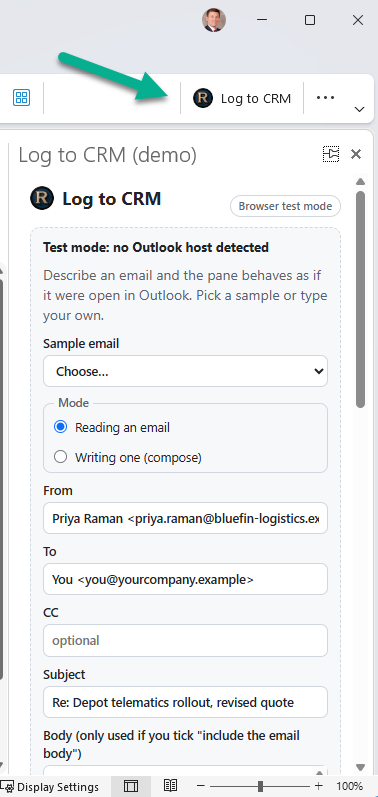
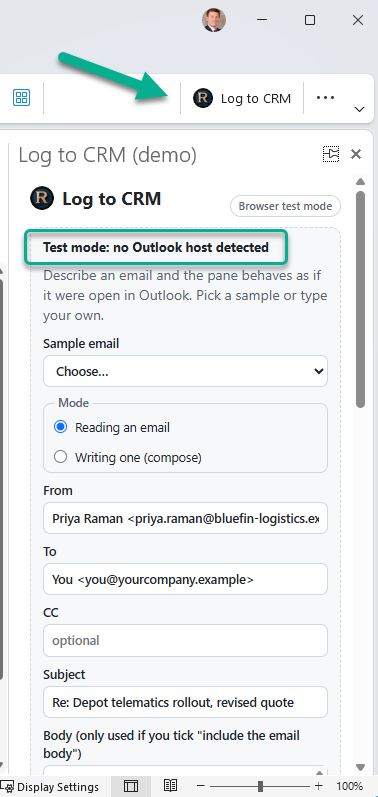
CSP: allow the Office host runtime (inline/eval + Microsoft origins); the strict policy blocked the handshake inside Outlook and stranded the pane in test mode. SECURITY.md documents the trade

Changed region(s): [[0.0582, 0.271, 0.7857, 0.3614]]

diff --git a/index.html b/index.html
@@ -14,17 +14,26 @@
     <meta name="viewport" content="width=device-width, initial-scale=1.0" />
     <meta name="color-scheme" content="light dark" />
     <!--
-      Content Security Policy. Everything is same-origin except Office.js, which
-      must come from Microsoft's CDN (bundling it is not permitted and it has no
-      stable hash for SRI). office.js also fetches its own locale/telemetry files
-      from that host, hence connect-src. Vite emits external scripts, so no
-      'unsafe-inline' for script-src. Inline styles are allowed only because
-      React sets a few style attributes. If the pane ever stops loading inside
-      Outlook after a host update, this policy is the first suspect: see the
-      Security section of the README. (frame-ancestors is deliberately absent:
-      browsers ignore it in a meta tag, and GitHub Pages cannot send headers.)
+      Content Security Policy, second iteration, and an honest one.
+
+      The first version allowed only 'self' plus the Office.js CDN, and it
+      passed everywhere EXCEPT inside Outlook: office.js loads fine, but the
+      host runtime it bootstraps inside Outlook needs inline and eval script
+      execution and talks to more Microsoft origins, so the host handshake
+      never completed and the pane sat in browser test mode forever. This is
+      the tightest policy found to actually host Office.js:
+
+        - script-src: 'unsafe-inline' and 'unsafe-eval' are required by the
+          Office host runtime, not by this app (our own bundle is external and
+          eval-free). That genuinely weakens XSS protection; the compensating
+          controls are that nothing on this page renders untrusted HTML (React
+          text rendering only, no innerHTML) and there is no server or secret
+          behind it.
+        - connect-src / script-src include the Microsoft CDN and service
+          origins office.js uses across hosts and versions.
+        - object-src 'none', base-uri 'self', form-action 'self' still hold.
     -->
-    <meta http-equiv="Content-Security-Policy" content="default-src 'self'; script-src 'self' https://appsforoffice.microsoft.com; connect-src 'self' https://appsforoffice.microsoft.com https://*.officeapps.live.com; img-src 'self' data:; style-src 'self' 'unsafe-inline'; font-src 'self'; base-uri 'self'; form-action 'self'; object-src 'none'" />
+    <meta http-equiv="Content-Security-Policy" content="default-src 'self'; script-src 'self' 'unsafe-inline' 'unsafe-eval' https://appsforoffice.microsoft.com https://*.cdn.office.net https://*.microsoft.com; connect-src 'self' https://*.microsoft.com https://*.office.net https://*.office.com; img-src 'self' data: https://*.microsoft.com https://*.cdn.office.net; style-src 'self' 'unsafe-inline'; font-src 'self' https://*.cdn.office.net; base-uri 'self'; form-action 'self'; object-src 'none'" />
     <meta name="description" content="An Outlook taskpane add-in that logs the open email to a CRM. Public demo: the CRM is a fictional dataset in the pane, so you can sideload the manifest from GitHub Pages, or just use it here in the browser." />
     <title>Log to CRM: Outlook add-in demo</title>
     <script src="https://appsforoffice.microsoft.com/lib/1/hosted/office.js"></script>

diff --git a/SECURITY.md b/SECURITY.md
@@ -46,11 +46,23 @@ pane stored; clearing site data for the origin does the same.
 
 `office.js` is loaded from `https://appsforoffice.microsoft.com/lib/1/hosted/office.js`.
 Microsoft requires add-ins to load it from that CDN (bundling is not permitted) and
-updates it in place, so Subresource Integrity cannot be used. The CSP allows that host
-for `script-src` and `connect-src` (Office.js fetches its own locale and telemetry
-files) and nothing else off-origin. If the pane ever stops loading inside Outlook after
-a host update, the CSP is the first thing to check; loosen `connect-src` for the Office
-host before anything else.
+updates it in place, so Subresource Integrity cannot be used.
+
+The CSP is looser than this project would otherwise ship, and the reason is worth a
+paragraph. The first policy allowed only 'self' plus that CDN, and it worked in every
+browser and in the test suite, then failed in the one place that matters: inside
+Outlook, office.js bootstraps a host runtime that requires inline and eval script
+execution and additional Microsoft origins, and with those blocked the host handshake
+never completes; the pane cannot tell it is in Outlook at all. So `script-src` now
+carries 'unsafe-inline' and 'unsafe-eval' FOR OFFICE.JS'S BENEFIT, not ours: this
+app's own bundle is an external file and uses no eval. The compensating controls are
+that nothing on the page renders untrusted HTML (React text rendering only, no
+innerHTML anywhere, enforced by review), and there is no server, session or secret
+behind the page for injected script to steal. `object-src 'none'`, `base-uri` and
+`form-action` remain locked. If you fork this for an add-in that talks to a real
+backend, treat that backend's cookies as the thing 'unsafe-inline' now exposes, and
+weigh the CSP against a server-delivered header where `frame-ancestors` and nonces
+are available.
 
 `frame-ancestors` is intentionally absent: browsers ignore it in a `<meta>` policy, and
 GitHub Pages cannot send HTTP headers. If you self-host, set it as a header to the

diff --git a/README.md b/README.md
@@ -167,14 +167,16 @@ calls, data stays in the host's localStorage, body capture is opt-in and capped.
 manifest asks for `ReadItem` only and points every URL at this repository's Pages
 origin (a test enforces it). There is no `innerHTML` anywhere; email content is
 rendered as text. The single external script is Office.js from Microsoft's CDN, which
-is required, and a Content Security Policy in `index.html` allows that host and
-nothing else off-origin. What the real add-in had to add (cookie auth in the webview,
+is required, and a Content Security Policy in `index.html` allows Microsoft's Office
+origins and nothing else off-origin ('unsafe-inline'/'unsafe-eval' are present because
+the Office host runtime needs them inside Outlook; SECURITY.md explains the trade). What the real add-in had to add (cookie auth in the webview,
 server-side validation and authorisation, HTTPS with a trusted certificate) is listed
 in [SECURITY.md](SECURITY.md).
 
-**After you sideload:** if the pane shows blank inside Outlook while the browser demo
-works, the CSP is the first suspect (Office.js occasionally adds a resource host);
-see SECURITY.md.
+**After you sideload:** if the pane sits in "test mode" or shows blank inside Outlook
+while the browser demo works, the CSP is the first suspect (this happened during
+development: a stricter policy blocked the Office host runtime's handshake); see
+SECURITY.md.
 
 ## Run it locally
 
